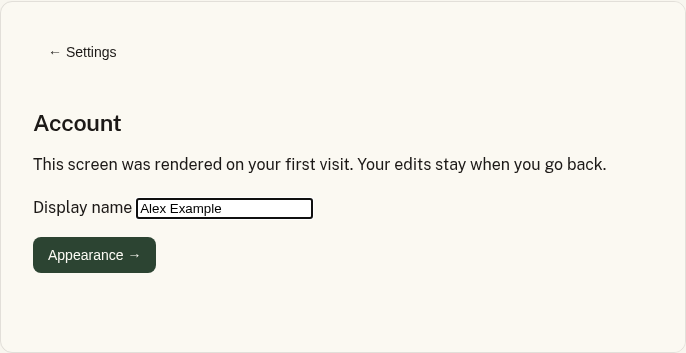
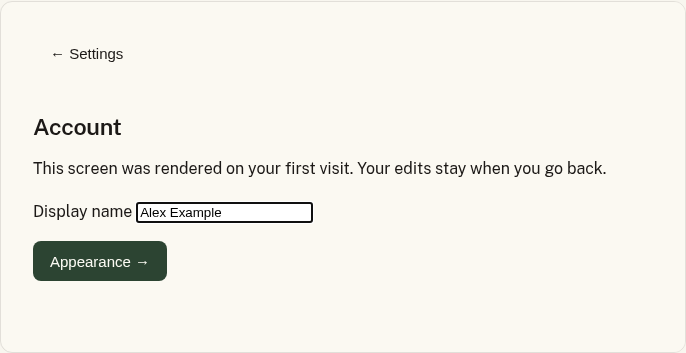
Document and verify adjacent-view momentum snapping

diff --git a/src/components/view-stack/style.css b/src/components/view-stack/style.css
@@ -20,6 +20,8 @@
   min-width: 0;
   min-height: 0;
   scroll-snap-align: start;
+  /* Trap momentum flicks at the adjacent view instead of skipping snap stops.
+     Keep this on the untransformed snap target, not its content wrapper. */
   scroll-snap-stop: always;
   view-timeline-name: --kinu-stack-view;
   view-timeline-axis: inline;

diff --git a/docs/components/view-stack.md b/docs/components/view-stack.md
@@ -41,6 +41,12 @@ Use native buttons (or kinu `Button`) with `commandFor` pointing to the stack's 
 
 Unknown commands and out-of-bounds moves are ignored. Supply explicit back buttons for keyboard and pointer users; touch and trackpad users can also swipe. Normal links retain their normal behavior. Routing/history integration, if desired, belongs to the application.
 
+### Can a hard flick skip the next screen?
+
+For native momentum flicks, no: each view sets `scroll-snap-stop: always`, so the browser must stop at the next snap point in that direction rather than coast through multiple screens. `scroll-snap-type: x mandatory` alone would only guarantee landing on *some* screen, not the adjacent one. `overscroll-behavior-x: none` also prevents chaining at the ends of the stack.
+
+This is a native scroll-snap guarantee, not a JavaScript gesture lock. A continuous drag, repeated gestures, or wheel/trackpad input that the browser treats as a position-based scroll can still traverse multiple screens. Explicit `--view-ID` navigation can also jump to a non-adjacent view. Enforcing exactly one screen for every possible input sequence would require intercepting native scrolling; ViewStack intentionally does not do that.
+
 ## Lazy rendering and accessibility
 
 Only the first view's content is rendered initially, including on the server. Other view shells stay in the layout as snap targets. Navigation renders the destination before programmatic scrolling; swipes render it when it becomes the active snap target. JSX children are supported; a function child additionally defers constructing the content until the first visit. It is a render function, not a one-time initializer: it can run again on subsequent renders. Put hooks in child components, not in this function.
